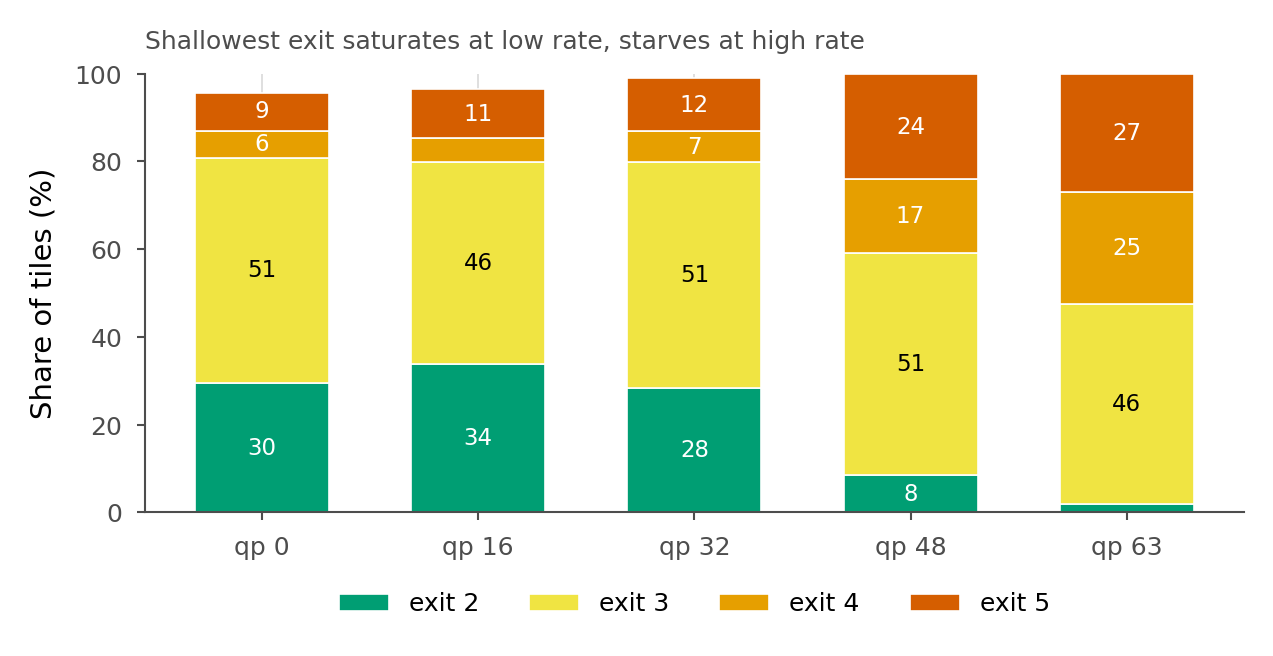
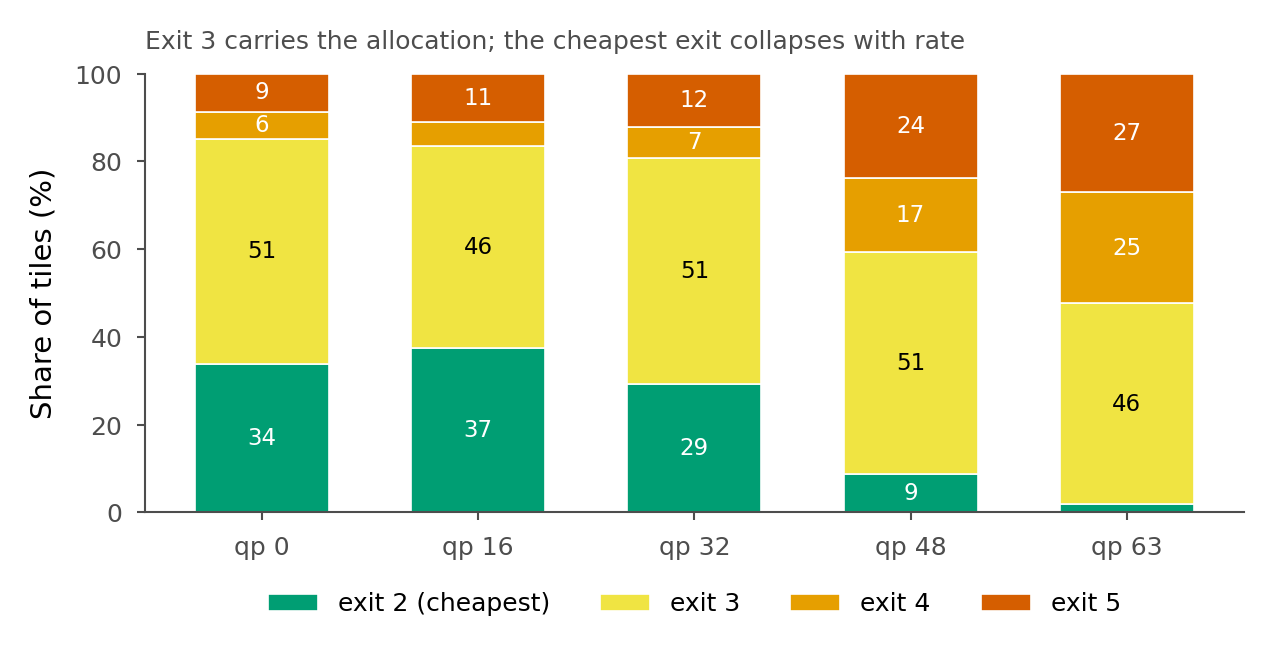
Three exits share the cheapest cost, and the histogram was only counting one
Under j=2 the first two groups run full-frame for every tile, so exit_costs is
0.5716 three times over -- indices 0, 1 and 2 are the same operating point.
argmin breaks that tie arbitrarily and scatters the cheapest allocation across
all three. The usage figure plotted index 2 alone, showing 29.5% at qp0 where
33.8% of tiles were actually there, and its bars summed to 95% rather than 100.

Visible in the figure the whole time: bars that do not reach the top of a
100% axis.

The corrected shares at a 0.1 dB budget on BEST:

    qp      cheapest   exit 3   exit 4   exit 5
     0        33.8%     51.3%    6.2%     8.7%
    16        37.4%     46.0%    5.4%    11.1%
    32        14.0%     53.2%   10.5%    22.3%
    48         8.7%     50.8%   16.8%    23.8%
    63         1.9%     45.7%   25.4%    27.0%

The finding stands and the title now matches it: exit 3 carries roughly half the
tiles at every rate, and the cheapest exit collapses from 34% to 2% across the
QP range. It was titled "shallowest exit saturates at low rate, starves at high
rate", which described the baseline.

target_gap printed "10% of tiles could afford exit 2 at qp63 against 34% at
qp0" as a fixed sentence. It was measured on the baseline, unmerged, and is
wrong twice over on BEST. Replaced with a pointer to the histogram, since which
exit binds is exactly the thing that moves.

diff --git a/scripts/make_figs_nature.py b/scripts/make_figs_nature.py
@@ -317,12 +317,28 @@ if pc2:
         cand = [r for r in pc2["rows"] if r["qp"] == q
                 and r.get("db_vs_uf_per_frame", r["db_vs_uf"]) <= 0.105]
         rows.append(max(cand, key=lambda r: r["saving_pct"]))
+    # Exits 0, 1 and 2 cost the SAME under j=2 -- the first j groups run
+    # full-frame for every tile, so the cost vector is 0.5716 three times over.
+    # argmin therefore breaks the tie arbitrarily and scatters the cheapest
+    # allocation across three indices. Plotting index 2 alone showed 29.5% where
+    # 33.8% of tiles were actually at that operating point, and the bars summed
+    # to 95%.
+    import sys as _sys
+    _sys.path.insert(0, str(R))
+    from flexuf.config import FlexUFConfig as _C
+    from flexuf.cost import exit_costs as _ec
+    _cfg = _C(**json.loads((R / "results" / CURVE).read_text()).get("config", {})) \
+        if False else None
     cols = [ns.BLUE, ns.SKY, ns.GREEN, ns.YELLOW, ns.ORANGE, ns.VERM]
     bot = np.zeros(len(qps))
     x = np.arange(len(qps))
+    _merged = [0, 1, 2]
     for k in range(2, 6):
-        v = np.array([100 * r["hist"][k] / sum(r["hist"]) for r in rows])
-        a.bar(x, v, .62, bottom=bot, color=cols[k], label=f"exit {k}",
+        idx = _merged if k == 2 else [k]
+        v = np.array([100 * sum(r["hist"][i] for i in idx) / sum(r["hist"])
+                      for r in rows])
+        a.bar(x, v, .62, bottom=bot, color=cols[k],
+              label="exit 2 (cheapest)" if k == 2 else f"exit {k}",
               edgecolor="white", linewidth=.4)
         for xi, (b_, v_) in enumerate(zip(bot, v)):
             if v_ > 6:
@@ -335,8 +351,8 @@ if pc2:
     a.set_ylabel("Share of tiles (%)"); a.set_ylim(0, 100)
     a.grid(axis="y", visible=False)
     a.legend(loc="upper center", bbox_to_anchor=(.5, -.13), ncol=4, frameon=False)
-    a.set_title("Shallowest exit saturates at low rate, starves at high rate",
-                fontsize=6, color=ns.INK2, loc="left")
+    a.set_title("Exit 3 carries the allocation; the cheapest exit collapses with "
+                "rate", fontsize=6, color=ns.INK2, loc="left")
     save(fig, "nf_usage.png")
 
 # The trade-off in two integrated numbers, plus what the anchor is worth.

diff --git a/scripts/target_gap.py b/scripts/target_gap.py
@@ -129,9 +129,11 @@ def main(argv):
               f"the anchor alone,")
         print(f"  and tightening it clears the target. At high rate drift is a "
               f"quarter to a third")
-        print(f"  and the rest is shallow-exit quality -- which is what the "
-              f"exit histogram said:")
-        print(f"  10% of tiles could afford exit 2 at qp63 against 34% at qp0.")
+        print(f"  and the rest is shallow-exit quality. Which exit binds is a "
+              f"question for the")
+        print(f"  histogram in results/, not for a sentence here: it was exit 2 "
+              f"on the baseline")
+        print(f"  and is exit 3 on BEST, and hard-coding either goes stale.")
 
     (ROOT / a.out).write_text(json.dumps(out, indent=2))
     print(f"\n  wrote {a.out}")
